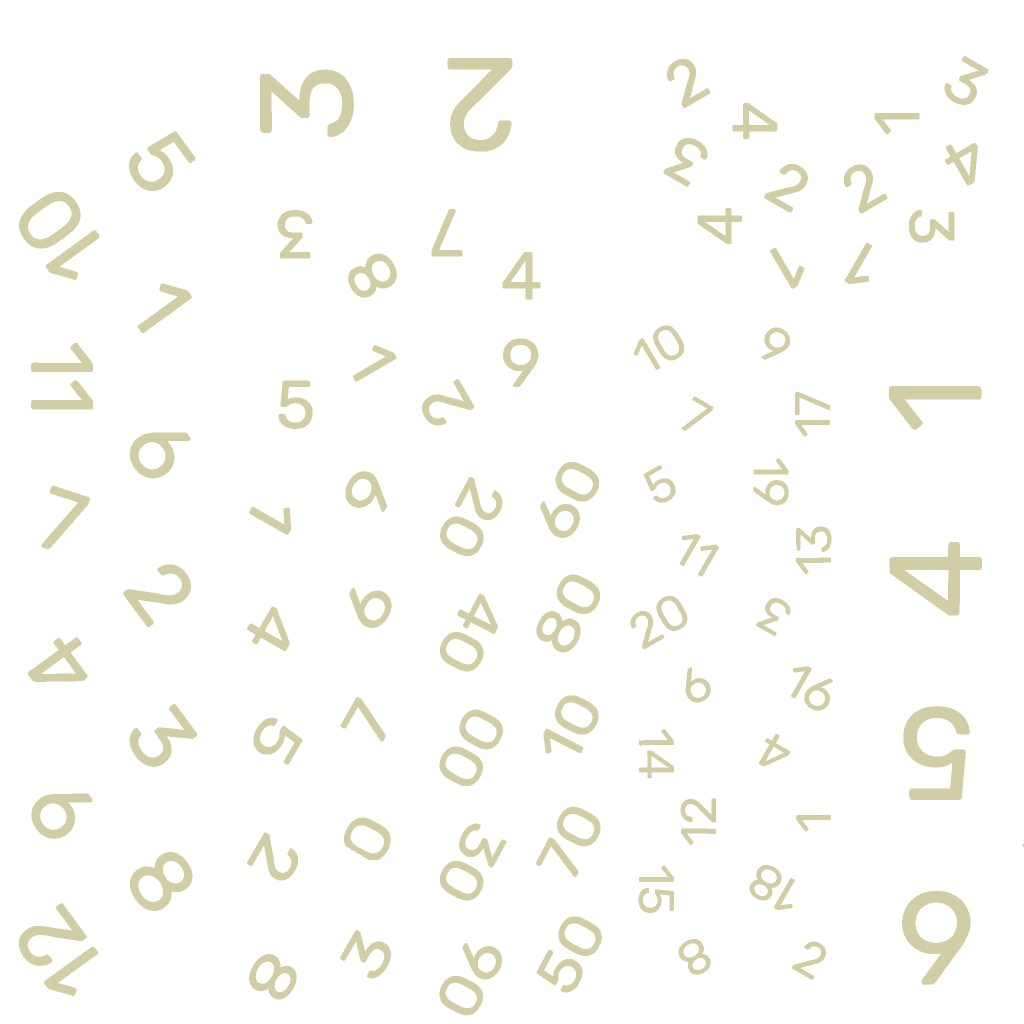
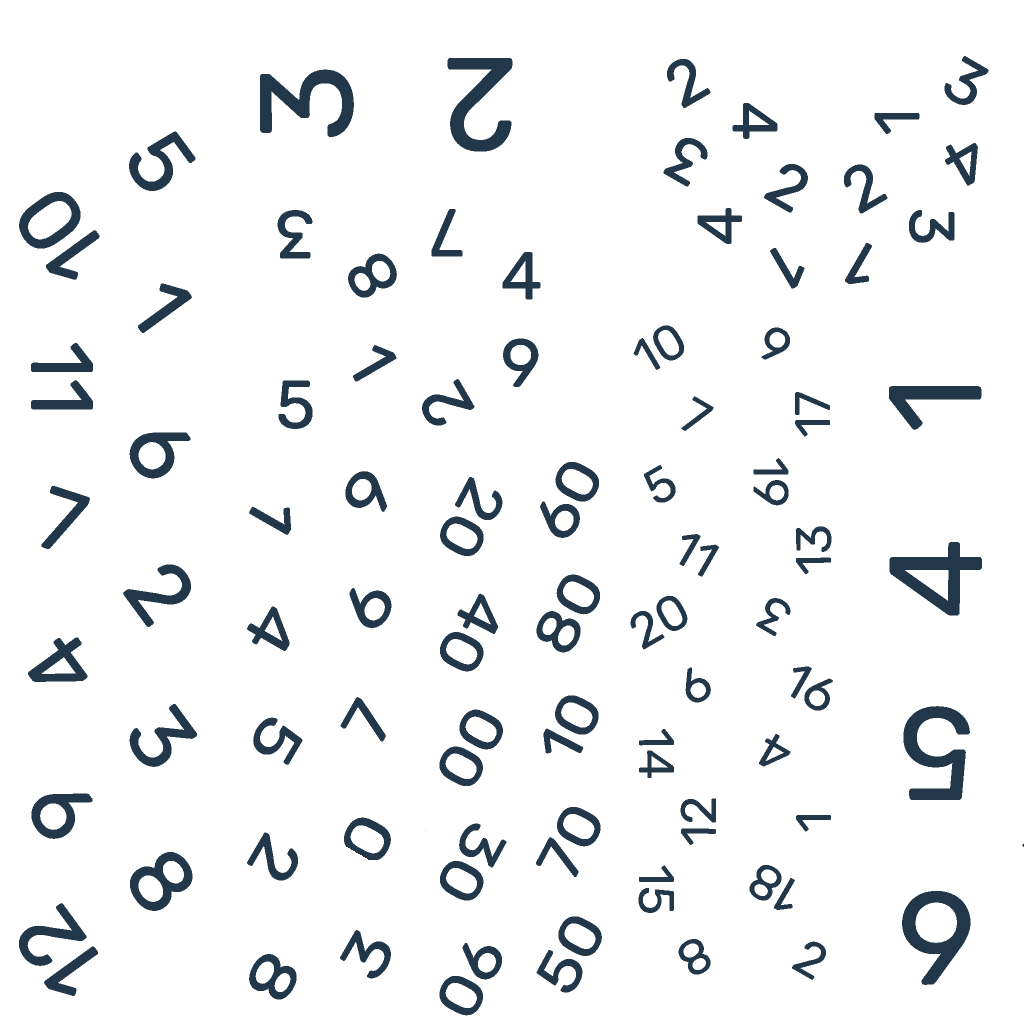
style: set ones die body to #77d19e and numbers to #22384a

diff --git a/server/build_centered_0_themes.js b/server/build_centered_0_themes.js
@@ -129,7 +129,7 @@ async function main() {
   }
 
   const tensDiffuseBuffer = await makeDiffuse(0x77, 0xd1, 0x9e); // #77d19e
-  const onesDiffuseBuffer = await makeDiffuse(0xd1, 0xce, 0xa5); // #d1cea5
+  const onesDiffuseBuffer = await makeDiffuse(0x22, 0x38, 0x4a); // #22384a
 
   // --- 5. Write to both custom-tens and custom-ones ---
   const tensDir = path.join(root, 'public/assets/dice-box/themes/custom-tens');
@@ -142,7 +142,7 @@ async function main() {
   fs.writeFileSync(path.join(onesDir, 'diffuse-light.png'), onesDiffuseBuffer);
   fs.writeFileSync(path.join(onesDir, 'diffuse-dark.png'), onesDiffuseBuffer);
   fs.writeFileSync(path.join(onesDir, 'normal.png'), normBuffer);
-  console.log('Saved updated textures to custom-ones (#d1cea5)');
+  console.log('Saved updated textures to custom-ones (#22384a)');
 
   console.log('All textures successfully generated with centered 0 and cleaned normal map!');
 }

diff --git a/client/src/views/RpgVttView.vue b/client/src/views/RpgVttView.vue
@@ -509,7 +509,7 @@ function rollPercentile() {
   if (diceBoxInstance) {
     diceBoxInstance.roll([
       { sides: 10, theme: 'custom-tens', themeColor: '#22384a', qty: 1 }, // Tens
-      { sides: 10, theme: 'custom-ones', themeColor: '#4a2242', qty: 1 }  // Ones
+      { sides: 10, theme: 'custom-ones', themeColor: '#77d19e', qty: 1 }  // Ones
     ]);
   }
 }

diff --git a/client/src/views/SpaceVttView.vue b/client/src/views/SpaceVttView.vue
@@ -552,7 +552,7 @@ function rollPercentile() {
   if (diceBoxInstance) {
     diceBoxInstance.roll([
       { sides: 10, theme: 'custom-tens', themeColor: '#22384a', qty: 1 }, // Tens
-      { sides: 10, theme: 'custom-ones', themeColor: '#4a2242', qty: 1 }  // Ones
+      { sides: 10, theme: 'custom-ones', themeColor: '#77d19e', qty: 1 }  // Ones
     ]);
   }
 }
